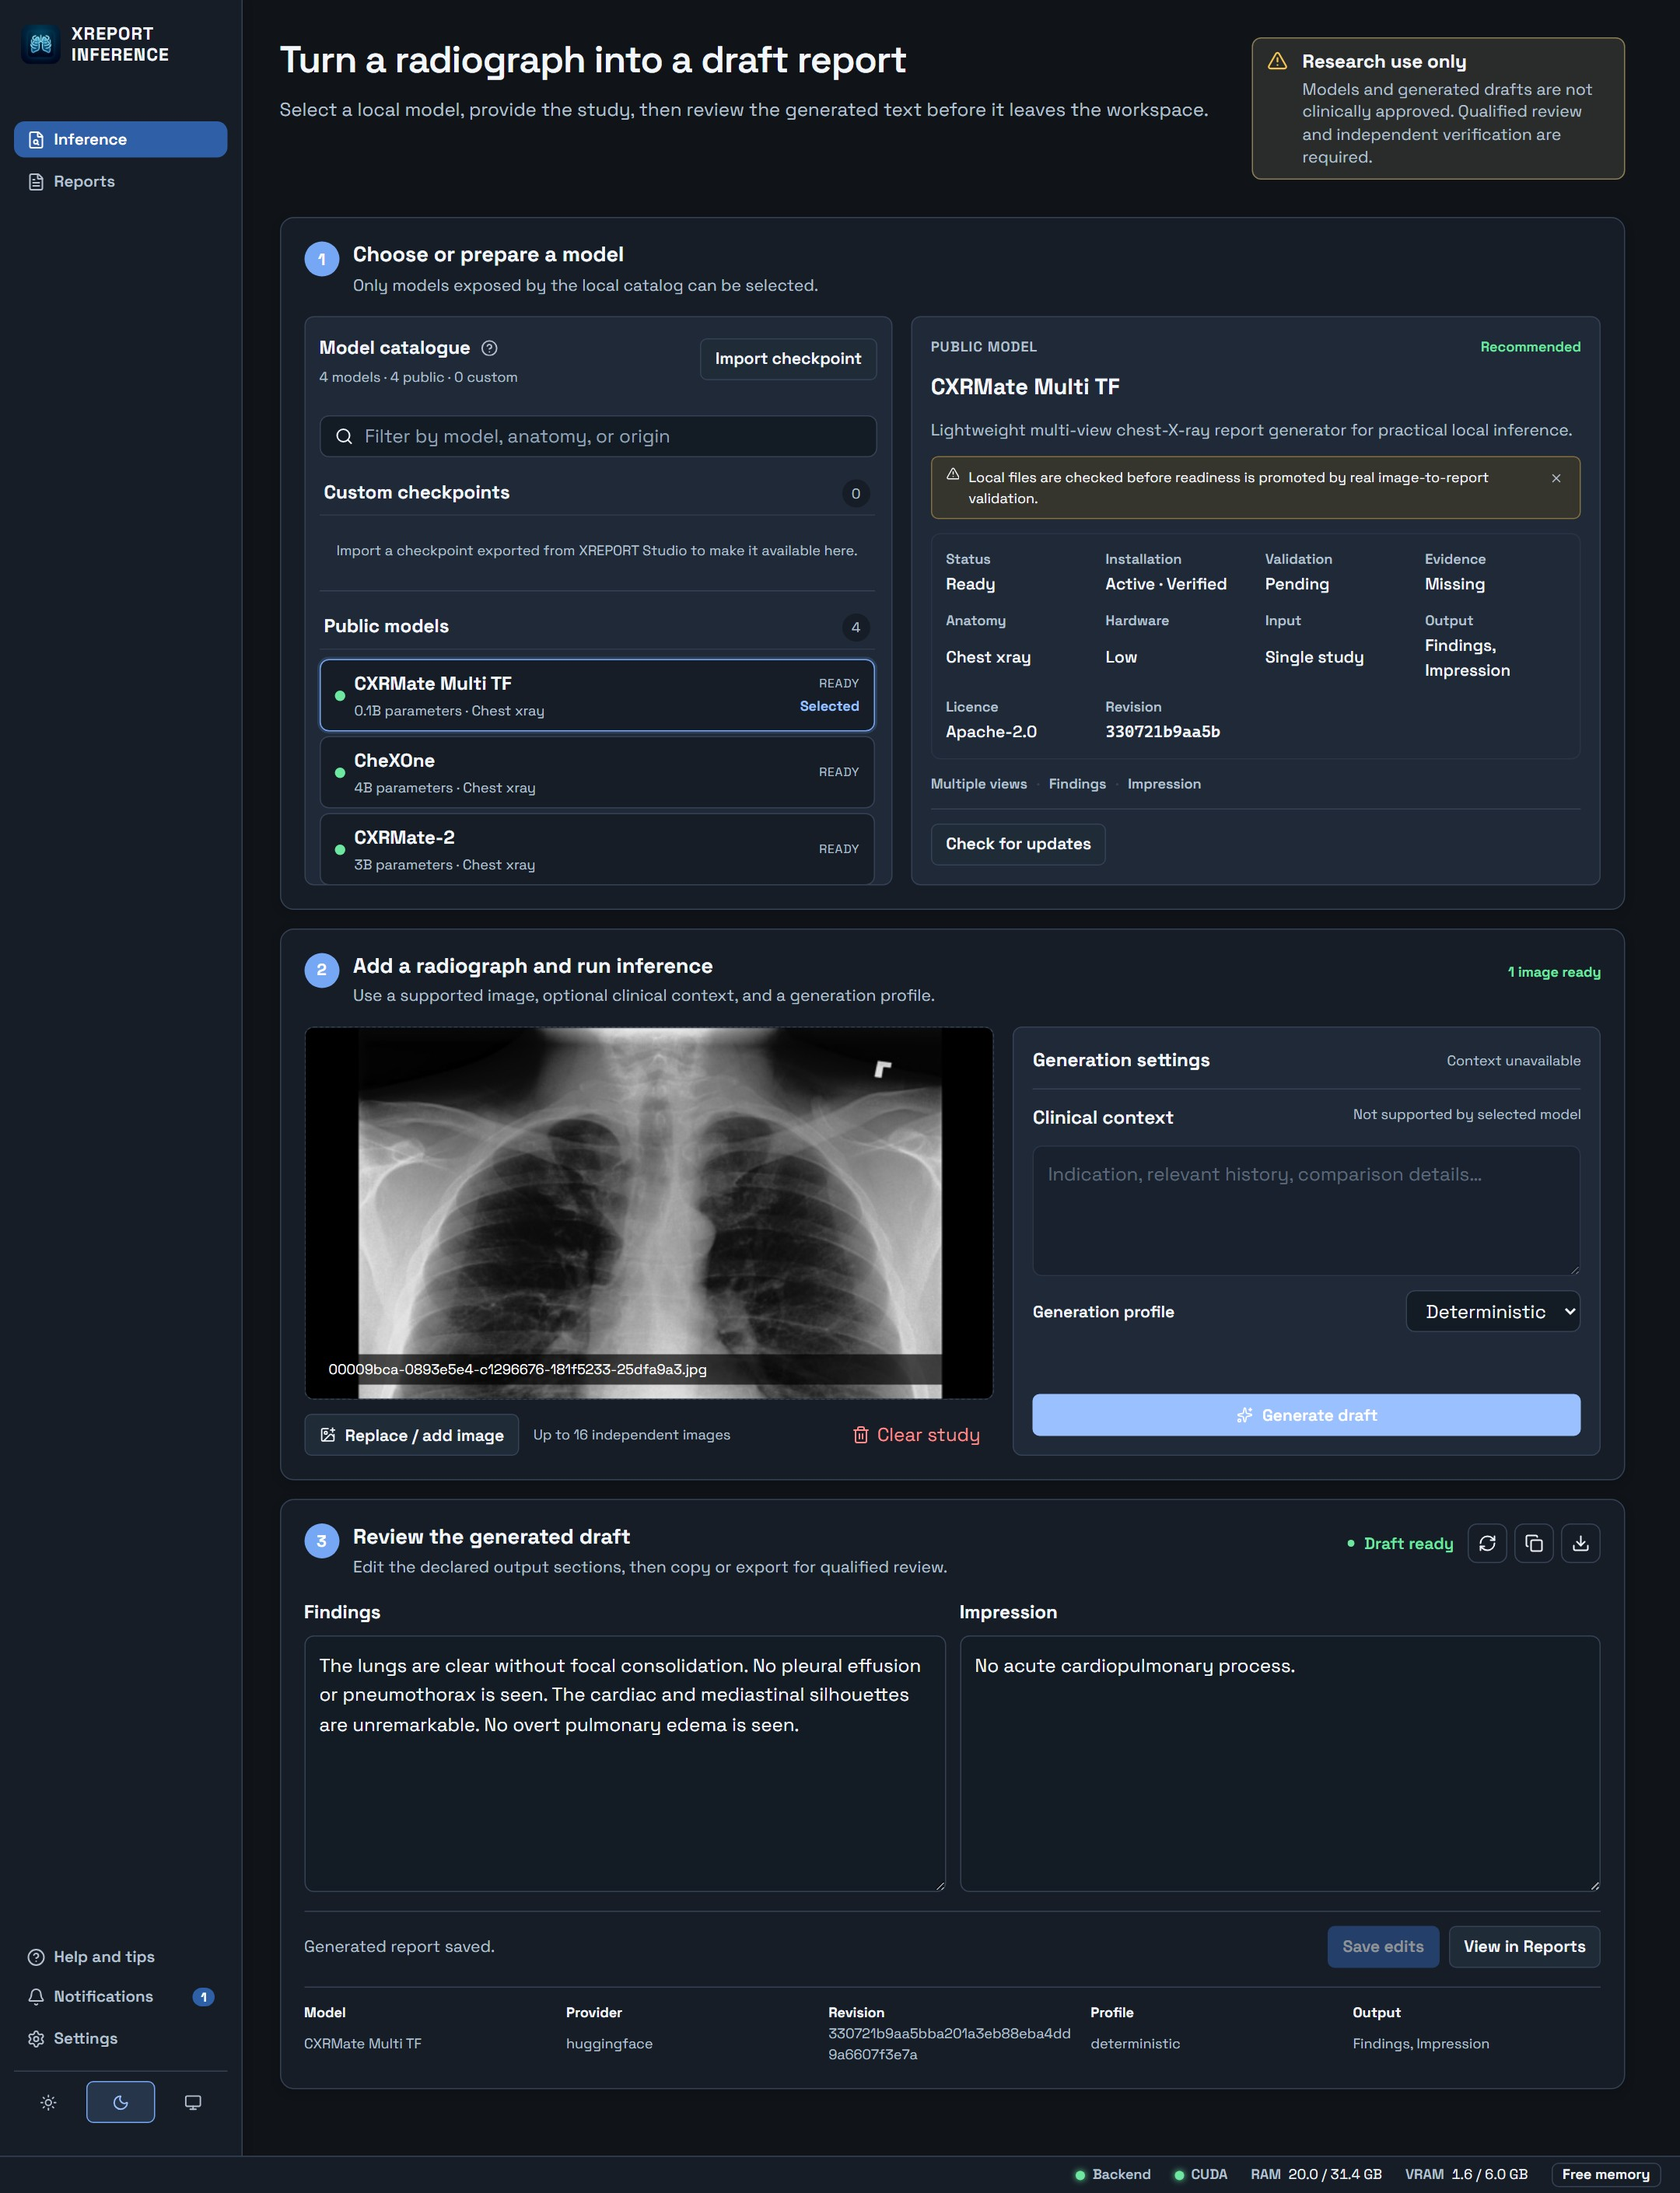
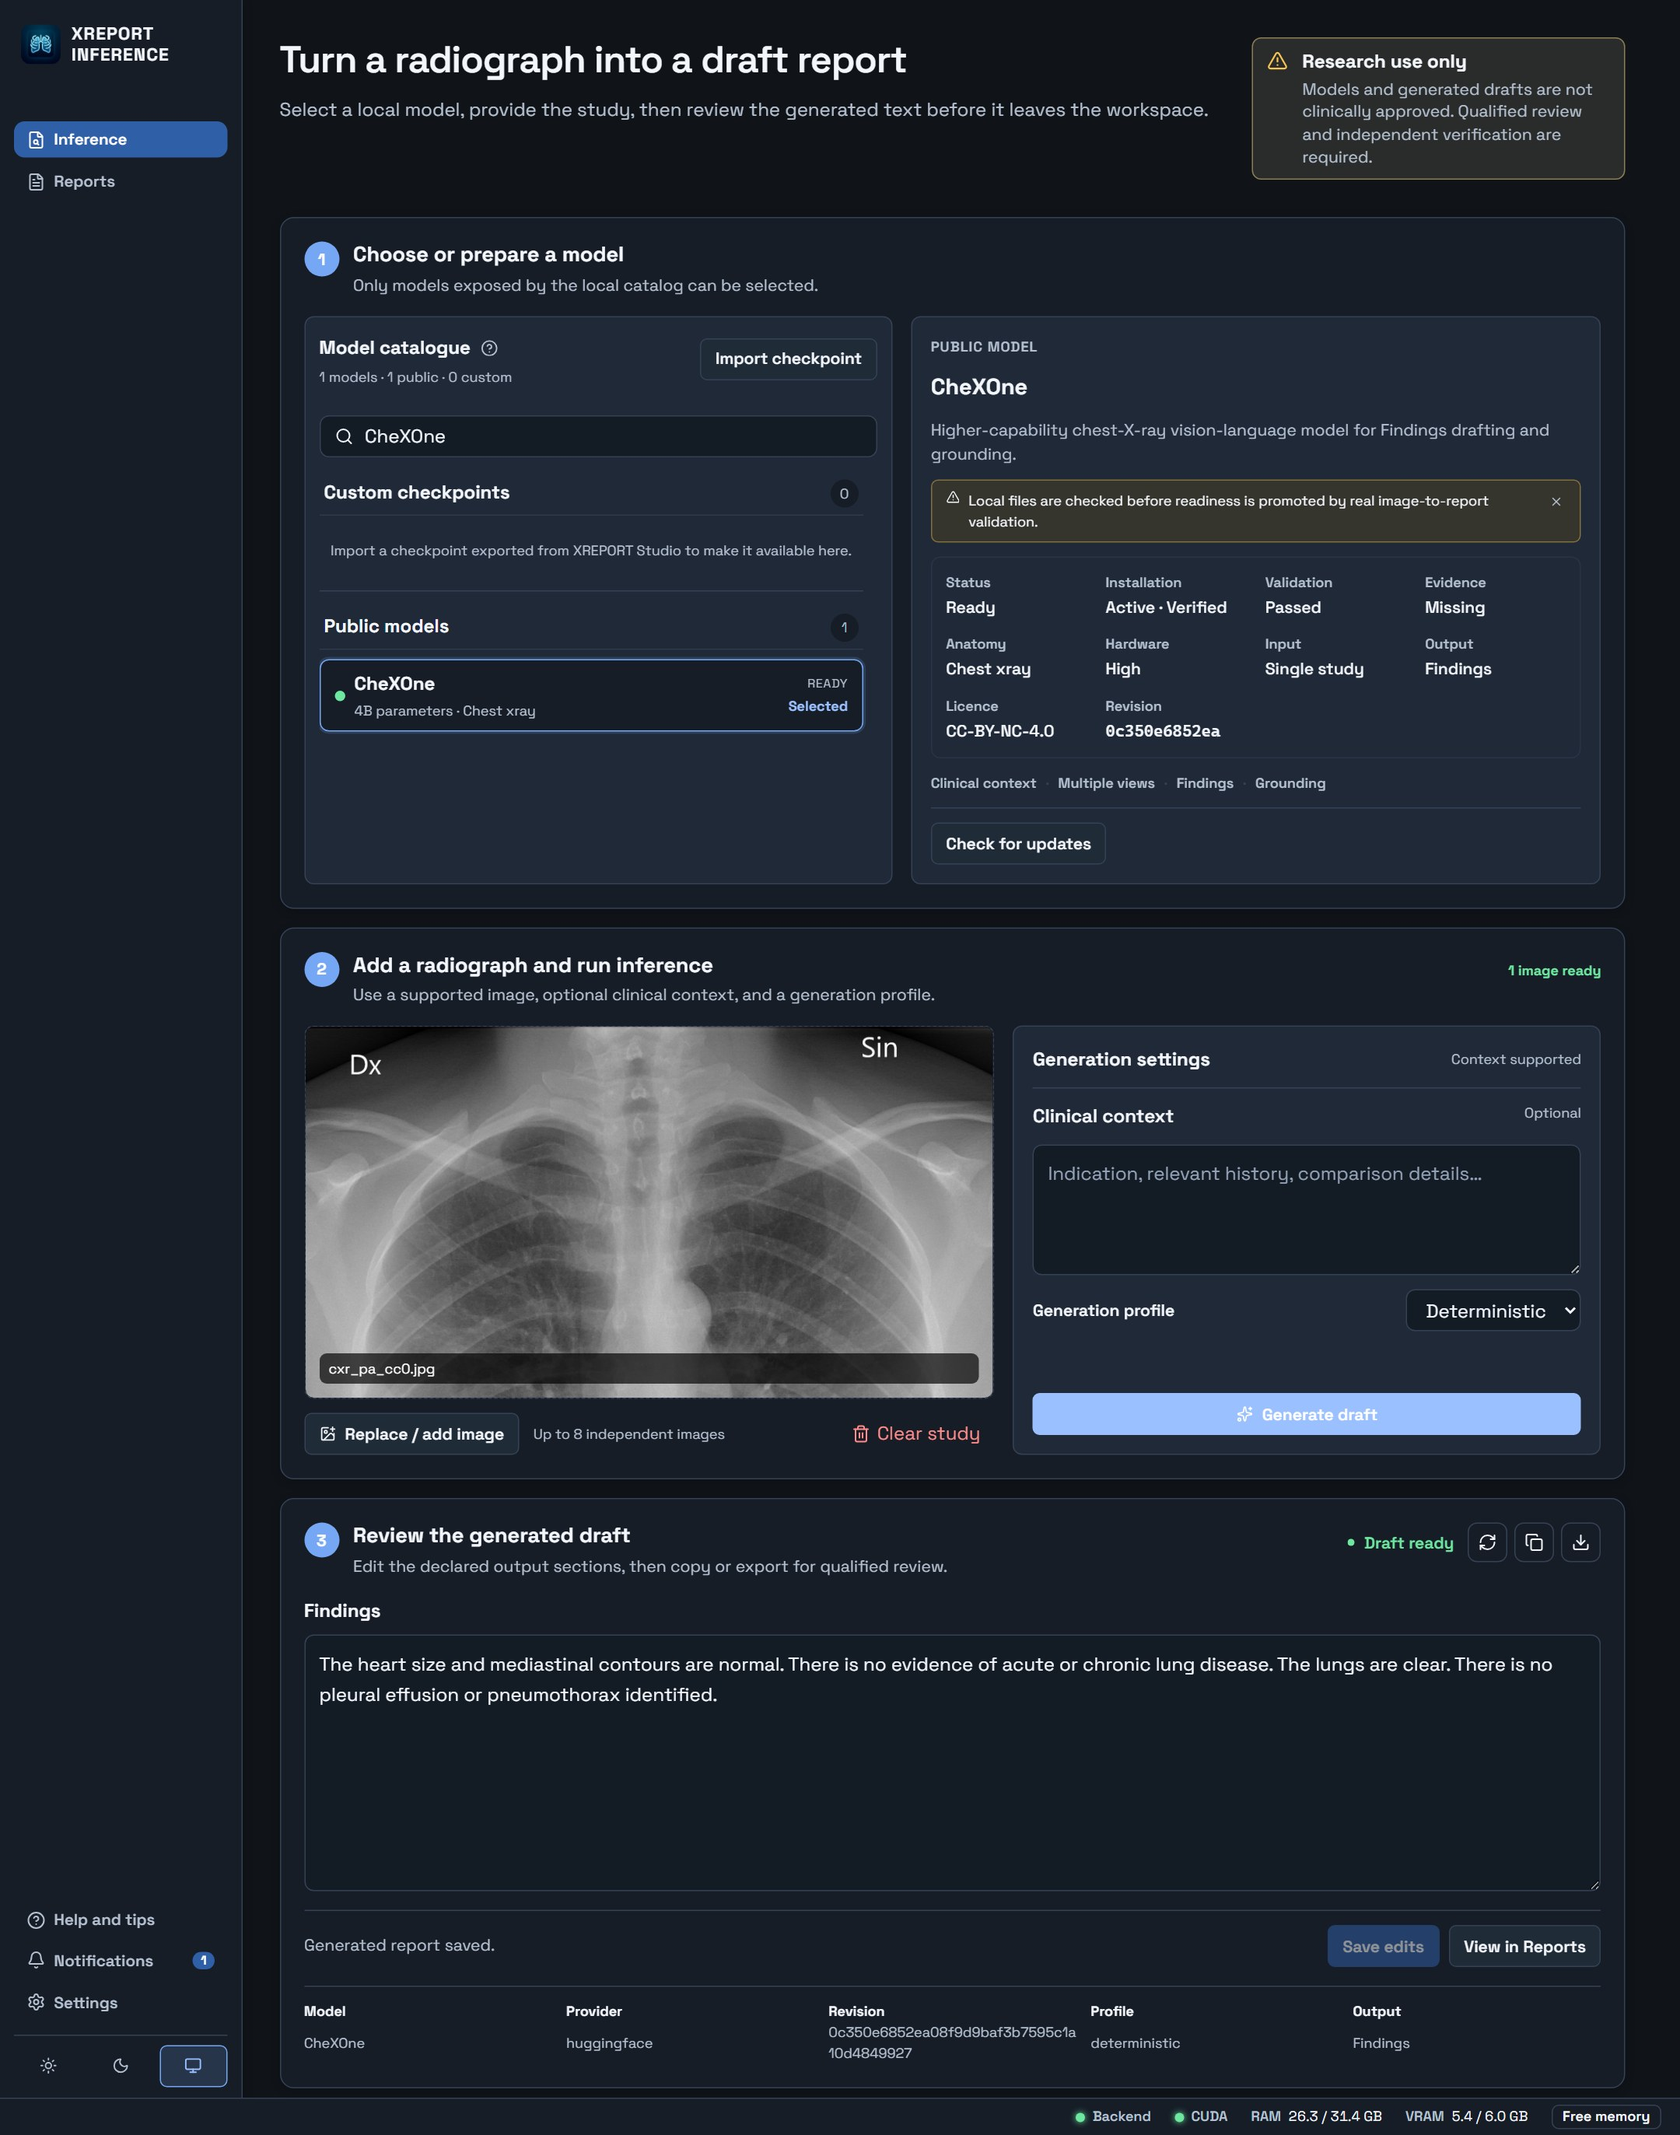
docs: refresh screenshots from running apps and record 4.0.0 validation

diff --git a/assets/docs/validation_campaign_ledger.md b/assets/docs/validation_campaign_ledger.md
@@ -1,6 +1,16 @@
 # XREPORT Validation Campaign Ledger
 
-Last updated: 2026-10-27
+Last updated: 2026-10-28
+
+## Release 4.0.0 (2026-10-28, `develop` at `aaba4725` plus documentation commits)
+
+- Scope: major release marking the Inference/Studio split. Only XREPORT Inference is packaged; Studio stays repository-run. No new features beyond `develop`; the changelog is [CHANGELOG.md](../../CHANGELOG.md).
+- PASSED (Windows, source mode): full backend unit and integration collection 383 passed, 6 PostgreSQL skipped, 2 failed (below); 121 Angular unit tests in three projects; both Angular builds, both lint targets and the built-server test; Ruff; Studio live e2e 27/27 and Inference live e2e 26/26 on a clean resource directory (CXRMate custom-checkpoint debris in the shared `data` folder made one responsive-layout case fail on the first run: it expected a model notice on the first selected model). Hosted CI on `develop` passed for each of the last five commits.
+- Findings: (1) `run_tests.bat` reported the 13 Studio browser cases failing with connection refused on port 8013 although its live-server phase passed; the same cases passed 27/27 with the Studio servers started by hand, so this is a runner race and not a product defect, left unfixed. (2) `test_app_lifespan_uses_returned_settings_for_state_and_health` fails while a live backend owns `data/` and passed alone (50 passed with the packaging-boundary suite). (3) Local Pyright with the Studio environment reports 14 errors in Studio modules and two Inference lines that hosted CI does not; CI remains the reference and the local drift (library stubs) was not resolved. (4) The local `data/` copy of the CXRMate Multi TF snapshot had `modelling_multi.py` modified (18480 bytes against the recorded 17211) before this session's runs; the installer's integrity check rejected it with `integrity_failed` and the catalogue showed the model as runtime unavailable. The check worked as designed; the snapshot needs a repair (re-download), which was not performed. (5) Unknown `/api/*` paths in the packaged build return the Angular index with HTTP 200 rather than 404 (observed for Studio endpoints, which are absent); not changed in this release.
+- Packages: CPU and CUDA portable and MSI built locally from a clean tree at `e0a9be80`/`00696363` with `BuildDesktopRelease -Version 4.0.0` (CPU 350 MB portable, 348 MB MSI; CUDA 2.03 GB portable, 2.03 GB MSI). `verify_desktop_artifacts.ps1` and `smoke_desktop.ps1` passed for both variants. Independent checks: the PyInstaller module tables (`PYZ`/`PKG`) of both builds contain no `xreport_studio` entry (it appears only in the spec's exclude list); the extracted CPU runtime has no Studio-named file; the running CPU portable reported `version 4.0.0`, served the Inference catalogue (4 models) and returned only the Angular index for `/api/training`, `/api/preparation`, `/api/upload` and `/api/validation`.
+- Screenshots: README figures were recaptured from running applications (Playwright against the real servers, 1440 px, dark theme, 1.5x). Inference used CheXOne generating on a CC0 chest radiograph; Studio used a 12-record synthetic fixture (the CC0 radiograph with brightness/rotation variants and synthetic report text), processed with the DistilBERT tokenizer and trained for two epochs with the compact preset. Capture inputs and raw PNGs are under the ignored `assets/QA/release-4.0.0/`.
+- Not run: MSI install, upgrade and uninstall (needs elevation), packaged inference with a model, packaged checkpoint import, GPU-less CUDA fallback, PostgreSQL, MedGemma (gated), a fresh batch-report walkthrough in the browser (covered only by the Angular and Playwright suites above), and the Studio Standard (CPU) profile.
+- Published-package scope: recorded below after the release workflow finishes.
 
 ## Database separation (2026-10-27, `develop`)
 

diff --git a/assets/docs/project_status_ledger.md b/assets/docs/project_status_ledger.md
@@ -2,6 +2,8 @@
 
 Last updated: 2026-10-28
 
+Release 4.0.0 (2026-10-28) is the major release for the Inference/Studio split: only XREPORT Inference is packaged and published. Its evidence, findings and unrun scopes are in the [validation campaign ledger](validation_campaign_ledger.md); open items from it: the `run_tests.bat` Studio preview race, a modified local CXRMate Multi TF snapshot that fails its integrity check until repaired, and local Pyright drift against hosted CI.
+
 Source change 2026-10-28, follow-up (not a release gate): closed the gaps left by the statistics, tokenizer and split work.
 
 Fixed and exercised:
@@ -190,7 +192,7 @@ PR #9 review fixes passed 272 backend unit tests, Ruff and Pyright locally, and 
 | `app.studio.frontend` | `WORKING` | `studio-angular` builds separately; the XREPORT bundle contains no dataset/training chunks or `/api/training|preparation|upload|validation` strings (grep of the production output). V11 built and linted both applications; 79 Angular unit tests passed on `e8ad7bedd776800ee3099239d6b257ee4d5cd0c6`. Rendered browser checks covered Studio navigation, dataset and training pages. | [Applications](architecture/applications_and_checkpoint_exchange.md) |
 | `checkpoint.exchange` | `PARTIAL` | Unit coverage confirms the format-2 round trip, idempotency, conflicts, cancellation and rollback, and rejection of legacy/manifestless archives; the earlier live round trip used format 1. V08 UI on `9b298c54` rejected a lone `.keras` and a manifestless four-core ZIP before job admission. V11 adds `app/tests/e2e/test_angular_ui.py::test_checkpoint_import_rejects_manifestless_archive_in_live_ui`, which exercises the live XREPORT import dialog and verifies the typed missing-manifest error with no import progress/job. V05 Studio training is blocked by the missing pinned encoder, so positive v2 export/import, custom-model inference/restart, checksum/version/conflict UI cases, import cancellation/recovery and packaged import remain unverified. | [Applications](architecture/applications_and_checkpoint_exchange.md), [campaign](validation_campaign_ledger.md) |
 | `runtime.studio.launcher` | `PARTIAL` | Studio now has an isolated profiled environment, first-launch setup, profile reuse/switching, retryable setup state, a dedicated install action, and uninstall cleanup. Eleven focused launcher tests, PowerShell parsing, `uv lock --check`, the XREPORT CUDA-only dry-run, and both Studio profile dry-runs pass. The new first-launch installation and profile replacement were not exercised against real dependency downloads; earlier Windows launch, build freshness, process scoping, and port-release evidence remains applicable to those behaviors. | [Startup](runtime/startup.md) |
-| `desktop.packaging.inference_only` | `UNVALIDATED` | PyInstaller spec and bundle audit exclude Studio modules/assets; no CPU/CUDA package was built, so package contents and import into a packaged build were not observed. | [Deployment](runtime/deployment.md) |
+| `desktop.packaging.inference_only` | `VALIDATED` | Release 4.0.0 CPU and CUDA packages were built locally from a clean tree: both passed the artifact verification and packaged startup smoke, the PyInstaller module tables contain no Studio module, and the running CPU portable reported 4.0.0, served only the Inference API and exposed no Studio routes. Packaged inference with a model, packaged checkpoint import and MSI install/upgrade were not exercised. | [Deployment](runtime/deployment.md), [campaign](validation_campaign_ledger.md) |
 
 ### Backend and persistence
 

diff --git a/README.md b/README.md
@@ -11,7 +11,7 @@
   <a href="assets/docs/project_index.md">Documentation</a>
 </p>
 
-<p align="center"><img src="assets/figures/inference-draft.jpg" alt="XREPORT Inference with a chest radiograph loaded and an editable generated draft with Findings and Impression sections" width="760"></p>
+<p align="center"><img src="assets/figures/inference-draft.jpg" alt="XREPORT Inference with a chest radiograph loaded and an editable draft generated by CheXOne" width="760"></p>
 
 XREPORT contains **two separate applications**:
 
@@ -56,7 +56,7 @@ Use Studio to build and evaluate models. Import an image folder and a report tab
 
 <p align="center"><img src="assets/figures/studio-training.jpg" alt="XREPORT Studio Training page with dataset and checkpoint selection and the live training dashboard" width="760"></p>
 
-The screenshots show the Dataset and Training pages with a small test dataset and checkpoint; the training dashboard is idle.
+The Studio screenshots show the Dataset and Training pages with a 12-record synthetic test dataset and a two-epoch compact checkpoint; the training dashboard is idle. The Inference screenshot is a real CheXOne run on a CC0 [chest radiograph](https://commons.wikimedia.org/wiki/File:Normal_posteroanterior_(PA)_chest_radiograph_(X-ray).jpg) and demonstrates the interface only, not model accuracy.
 
 ### Start Studio
 

diff --git a/assets/docs/runtime/deployment.md b/assets/docs/runtime/deployment.md
@@ -113,7 +113,5 @@ matching GitHub Release. Signing is deliberately absent.
 Tauri MSI and portable packages contain only XREPORT Inference. `xreport_inference.desktop_entry` runs the `xreport` profile, the
 PyInstaller spec collects only `xreport_shared` and `xreport_inference` (the Studio package is
 excluded and never imported), and the runtime-bundle audit forbids `studio`
-and `studio-angular` members. XREPORT Studio has no installer, package, or release workflow. A unit
-test (`test_packaging_boundary.py`) keeps `xreport_inference` and `xreport_shared` free of Studio imports; package
-contents themselves were not rebuilt for this change (see the status ledger). Models are still not
+and `studio-angular` members. XREPORT Studio has no installer, package, or release workflow. A unit test (`test_packaging_boundary.py`) keeps `xreport_inference` and `xreport_shared` free of Studio imports. The 4.0.0 CPU and CUDA packages were built and inspected: their module tables contain no Studio module and a running package exposes no Studio routes (see the campaign ledger). Models are still not
 bundled; imported checkpoints live under the user data folder like other models.
